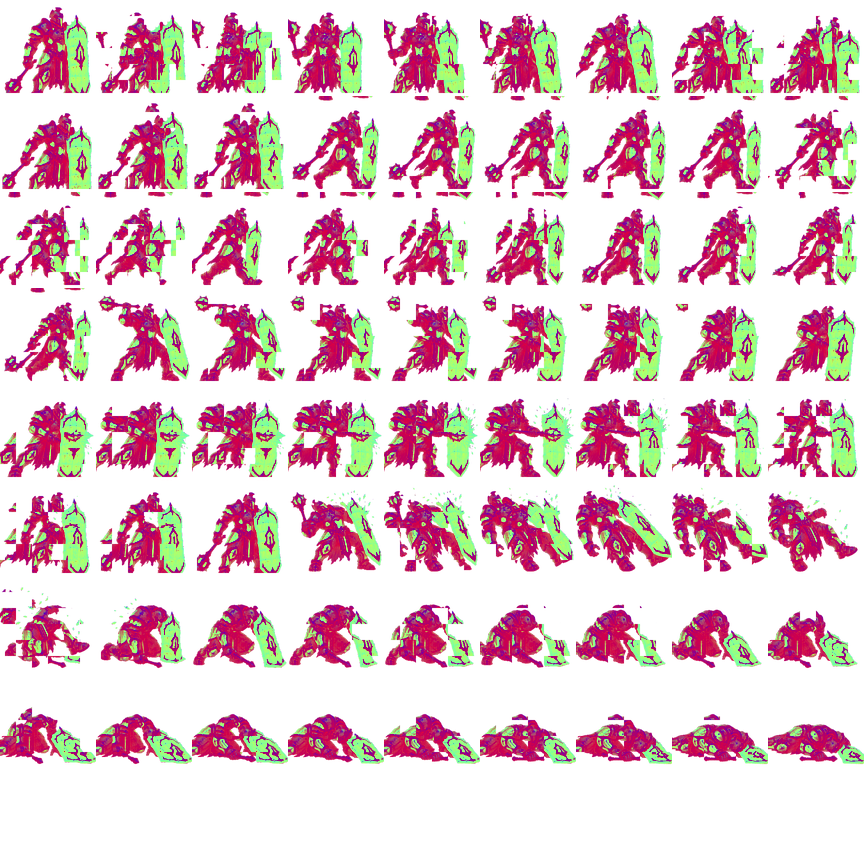
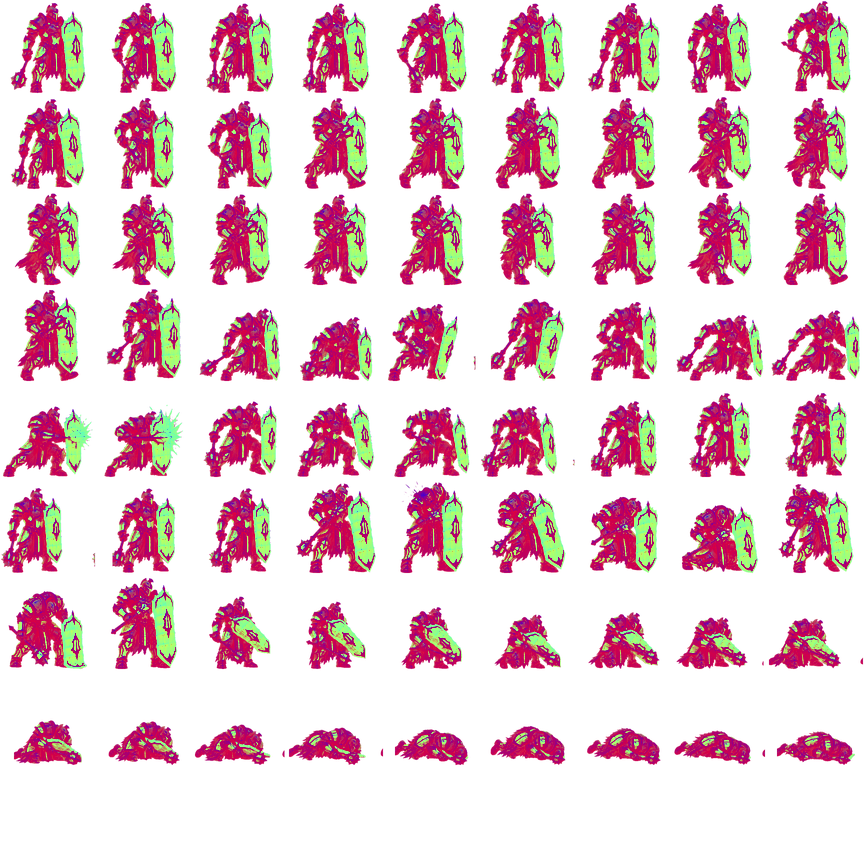
fix: replace cutout water animation with authored poses

diff --git a/tools/build_water_material_slice.py b/tools/build_water_material_slice.py
@@ -1,4 +1,4 @@
-"""Build deterministic water-ecology runtime atlases from original source art."""
+"""Build water-ecology atlases from complete authored animation poses."""
 
 from __future__ import annotations
 
@@ -14,6 +14,22 @@ ENV_SIZE = 768
 MONSTER_SIZE = 864
 CELL = 96
 COLUMNS = 9
+SEQUENCES = {
+    "bulwark": (
+        ("idle", "water-bulwark-idle-12-alpha-v3.png", 4, 3, 12),
+        ("move", "water-bulwark-move-16-alpha-v5.png", 4, 4, 16),
+        ("special", "water-bulwark-special-20-alpha-v3.png", 5, 4, 20),
+        ("hurt", "water-bulwark-hurt-8-alpha-v3.png", 4, 2, 8),
+        ("death", "water-bulwark-death-16-alpha-v4.png", 4, 4, 16),
+    ),
+    "support": (
+        ("idle", "water-support-idle-12-alpha-v4.png", 4, 3, 12),
+        ("move", "water-support-move-16-alpha-v3.png", 4, 4, 16),
+        ("special", "water-support-special-20-alpha-v5.png", 5, 4, 20),
+        ("hurt", "water-support-hurt-8-alpha-v4.png", 4, 2, 8),
+        ("death", "water-support-death-16-alpha-v3.png", 4, 4, 16),
+    ),
+}
 
 
 def cover(image: Image.Image, size: tuple[int, int]) -> Image.Image:
@@ -70,93 +86,39 @@ def alpha_bbox(image: Image.Image) -> tuple[int, int, int, int]:
     return bbox
 
 
-def pose_board_rows(role: str) -> list[list[Image.Image]]:
-    board = Image.open(
-        SOURCE / f"water-{role}-pose-board-alpha-v2.png").convert("RGBA")
-    reference = board.crop((0, 0, round(board.width / 4),
-                            round(board.height / 5)))
-    reference_alpha = reference.getchannel("A").point(
-        lambda value: 0 if value < 64 else 255)
-    reference_bbox = reference_alpha.getbbox()
-    if reference_bbox is None:
-        raise RuntimeError(f"{role} reference pose has no visible pixels")
-    cell_scale = 172.0 / (reference_bbox[3] - reference_bbox[1])
-    rows: list[list[Image.Image]] = []
-    for row in range(5):
+def sequence_frames(role: str) -> list[Image.Image]:
+    frames: list[Image.Image] = []
+    for state, filename, columns, rows, frame_count in SEQUENCES[role]:
+        board = Image.open(SOURCE / "water_sequences" / filename).convert("RGBA")
         poses: list[Image.Image] = []
-        top = round(row * board.height / 5)
-        bottom = round((row + 1) * board.height / 5)
-        for column in range(4):
-            left = round(column * board.width / 4)
-            right = round((column + 1) * board.width / 4)
-            pose = board.crop((left, top, right, bottom))
+        for frame in range(frame_count):
+            column = frame % columns
+            row = frame // columns
+            pose = board.crop((
+                round(column * board.width / columns),
+                round(row * board.height / rows),
+                round((column + 1) * board.width / columns),
+                round((row + 1) * board.height / rows)))
             alpha = pose.getchannel("A").point(
                 lambda value: 0 if value < 64 else (
                     255 if value > 160 else (value - 64) * 255 // 96))
             pose.putalpha(alpha)
-            pose = pose.resize((round(pose.width * cell_scale),
-                                round(pose.height * cell_scale)),
+            poses.append(pose.crop(alpha_bbox(pose)))
+        scale = min(184.0 / max(pose.height for pose in poses),
+                    188.0 / max(pose.width for pose in poses))
+        for pose in poses:
+            pose = pose.resize((round(pose.width * scale),
+                                round(pose.height * scale)),
                                Image.Resampling.LANCZOS)
             pose = pose.crop(alpha_bbox(pose))
             canvas = Image.new("RGBA", (CELL * 2, CELL * 2))
             canvas.alpha_composite(pose,
                 ((canvas.width - pose.width) // 2, 186 - pose.height))
-            poses.append(canvas)
-        rows.append(poses)
-    return rows
-
-
-def partwise_pose(poses: list[Image.Image], frame: int,
-                  frame_count: int, loop: bool) -> Image.Image:
-    if loop:
-        frames_per_transition = frame_count // len(poses)
-        pose_index = frame // frames_per_transition
-        next_pose_index = (pose_index + 1) % len(poses)
-        local_step = frame % frames_per_transition
-        transition_steps = frames_per_transition
-    else:
-        denominator = frame_count - 1
-        numerator = frame * (len(poses) - 1)
-        pose_index = min(numerator // denominator, len(poses) - 1)
-        if pose_index == len(poses) - 1:
-            return poses[pose_index].resize(
-                (CELL, CELL), Image.Resampling.LANCZOS)
-        next_pose_index = min(pose_index + 1, len(poses) - 1)
-        transition_start = (pose_index * denominator
-                            + len(poses) - 2) // (len(poses) - 1)
-        transition_end = ((pose_index + 1) * denominator
-                          + len(poses) - 2) // (len(poses) - 1)
-        local_step = frame - transition_start
-        transition_steps = transition_end - transition_start
-
-    current = poses[pose_index].copy()
-    following = poses[next_pose_index]
-    regions = tuple(
-        (column * 32, row * 32, (column + 1) * 32, (row + 1) * 32)
-        for row in range(6) for column in range(6))
-    weighted_regions = []
-    for region in regions:
-        difference = ImageChops.difference(
-            current.crop(region), following.crop(region))
-        if difference.getbbox() is None:
-            continue
-        histogram = difference.histogram()
-        weight = sum(value * count
-                     for channel in range(4)
-                     for value, count in enumerate(
-                         histogram[channel * 256:(channel + 1) * 256]))
-        weighted_regions.append((weight, region))
-    part_batches: list[list[tuple[int, int, int, int]]] = [
-        [] for _ in range(transition_steps)]
-    batch_weights = [0] * transition_steps
-    for weight, region in sorted(weighted_regions, reverse=True):
-        batch = min(range(transition_steps), key=batch_weights.__getitem__)
-        part_batches[batch].append(region)
-        batch_weights[batch] += weight
-    for batch in part_batches[:local_step]:
-        for region in batch:
-            current.paste(following.crop(region), region)
-    return current.resize((CELL, CELL), Image.Resampling.LANCZOS)
+            frames.append(canvas.resize(
+                (CELL, CELL), Image.Resampling.LANCZOS))
+        if len(poses) != frame_count:
+            raise RuntimeError(f"{role}/{state}: incomplete pose sheet")
+    return frames
 
 
 def validate_monster_frames(atlas: Image.Image, role: str) -> None:
@@ -188,23 +150,40 @@ def validate_monster_frames(atlas: Image.Image, role: str) -> None:
                 raise RuntimeError(
                     f"{role}/{state} frame {local_frame}->{local_frame + 1}: "
                     f"only {percent:.2f}% pixels changed")
+        for local_frame, frame in enumerate(frames):
+            visible = {
+                (x, y) for y in range(CELL) for x in range(CELL)
+                if frame.getpixel((x, y))[3] > 96}
+            remaining = set(visible)
+            components: list[int] = []
+            while remaining:
+                stack = [remaining.pop()]
+                size = 0
+                while stack:
+                    x, y = stack.pop()
+                    size += 1
+                    for dy in (-1, 0, 1):
+                        for dx in (-1, 0, 1):
+                            neighbor = (x + dx, y + dy)
+                            if neighbor in remaining:
+                                remaining.remove(neighbor)
+                                stack.append(neighbor)
+                components.append(size)
+            components.sort(reverse=True)
+            second = components[1] if len(components) > 1 else 0
+            if (not components or components[0] * 100 < len(visible) * 94
+                    or second * 100 > len(visible) * 2):
+                raise RuntimeError(
+                    f"{role}/{state} frame {local_frame}: disconnected silhouette")
         frame_offset += frame_count
 
 
 def build_monster(role: str) -> None:
-    rows = pose_board_rows(role)
     atlas = Image.new("RGBA", (MONSTER_SIZE, MONSTER_SIZE))
-    frame_index = 0
-    for row, frame_count, loop in (
-            (0, 12, True), (1, 16, True), (2, 20, False),
-            (3, 8, False), (4, 16, False)):
-        for local_frame in range(frame_count):
-            frame = partwise_pose(
-                rows[row], local_frame, frame_count, loop)
-            atlas.alpha_composite(frame,
-                ((frame_index % COLUMNS) * CELL,
-                 (frame_index // COLUMNS) * CELL))
-            frame_index += 1
+    for frame_index, frame in enumerate(sequence_frames(role)):
+        atlas.alpha_composite(frame,
+            ((frame_index % COLUMNS) * CELL,
+             (frame_index // COLUMNS) * CELL))
     validate_monster_frames(atlas, role)
     atlas.save(OUTPUT / f"water_{role}.png")
     material_map(atlas).save(OUTPUT / f"water_{role}_material.png")

diff --git a/tests/platform/ecology_material_coverage_tests.cpp b/tests/platform/ecology_material_coverage_tests.cpp
@@ -121,6 +121,62 @@ struct OpaqueBounds final {
     int height{};
 };
 
+struct ConnectedSilhouette final {
+    std::uint64_t visible_pixels{};
+    std::uint64_t largest_component{};
+    std::uint64_t second_component{};
+};
+
+ConnectedSilhouette connected_silhouette(const Color* pixels, int image_width,
+    const Rectangle& source) noexcept {
+    constexpr int kCell = 96;
+    std::array<bool, kCell * kCell> visited{};
+    std::array<int, kCell * kCell> queue{};
+    ConnectedSilhouette result{};
+    const int left = static_cast<int>(source.x);
+    const int top = static_cast<int>(source.y);
+    const auto visible = [&](int x, int y) noexcept {
+        return pixels[(top + y) * image_width + left + x].a > 96U;
+    };
+    for (int y{}; y < kCell; ++y) {
+        for (int x{}; x < kCell; ++x) {
+            if (visible(x, y)) ++result.visible_pixels;
+            const int start = y * kCell + x;
+            if (visited[start] || !visible(x, y)) continue;
+            std::size_t read{};
+            std::size_t write{1U};
+            queue[0] = start;
+            visited[start] = true;
+            while (read < write) {
+                const int cell = queue[read++];
+                const int cx = cell % kCell;
+                const int cy = cell / kCell;
+                for (int dy = -1; dy <= 1; ++dy) {
+                    for (int dx = -1; dx <= 1; ++dx) {
+                        if ((dx == 0 && dy == 0) || cx + dx < 0
+                            || cx + dx >= kCell || cy + dy < 0
+                            || cy + dy >= kCell) continue;
+                        const int neighbor = (cy + dy) * kCell + cx + dx;
+                        if (visited[neighbor] || !visible(cx + dx, cy + dy)) {
+                            continue;
+                        }
+                        visited[neighbor] = true;
+                        queue[write++] = neighbor;
+                    }
+                }
+            }
+            const std::uint64_t component = write;
+            if (component > result.largest_component) {
+                result.second_component = result.largest_component;
+                result.largest_component = component;
+            } else if (component > result.second_component) {
+                result.second_component = component;
+            }
+        }
+    }
+    return result;
+}
+
 struct SilhouetteMetrics final {
     OpaqueBounds bounds{};
     std::uint64_t visible_pixels{};
@@ -299,7 +355,14 @@ arpg::test::Failure water_monsters_expose_complete_multiframe_state_groups() noe
                     pixels, image.width, current->source);
                 const SilhouetteMetrics metrics = frame_silhouette_metrics(
                     pixels, image.width, current->source);
+                const ConnectedSilhouette connected = connected_silhouette(
+                    pixels, image.width, current->source);
                 ARPG_REQUIRE(metrics.visible_pixels > 0U);
+                ARPG_REQUIRE(connected.visible_pixels > 0U);
+                ARPG_REQUIRE(connected.largest_component * 100U
+                    >= connected.visible_pixels * 94U);
+                ARPG_REQUIRE(connected.second_component * 100U
+                    <= connected.visible_pixels * 2U);
                 ARPG_REQUIRE(metrics.soft_pixels * 100U
                     <= metrics.visible_pixels * 55U);
                 if (frame > 0U) {

diff --git a/.superpowers/sdd/water-material-slice-report.md b/.superpowers/sdd/water-material-slice-report.md
@@ -2,7 +2,7 @@
 
 ## 变更
 
-- 新增原创水环境、水盾卫、水支援原图、5x4 动作姿态板、透明源、运行时彩色图集与材质图；确定性构建脚本从每状态四个真实关键姿态插值重建全部六张水系运行时资源，并补齐三张公共材质图。
+- 新增原创水环境、水盾卫、水支援原图、10 张逐状态完整动作源板及对应透明源、运行时彩色图集与材质图；构建脚本直接缩放并排布每张源板中的完整角色帧，重建全部六张水系运行时资源，并补齐三张公共材质图。
 - 水环境独立提供湿石地面、墙、门、洞口、冷光灯、矿物珊瑚与排水格栅，运行时不引用火焰环境图集。
 - 水盾卫与水支援使用各自的 864x864 图集；每怪提供待机 12、移动 16、特殊 20、受击 8、死亡 16 个实际 UV 帧。纯表现状态时钟按槽位 generation/id 管理，特殊、受击、死亡从第 0 帧启动，死亡播放完成后钳制最后一帧。
 - manifest、MaterialPack 双图加载与材质合成、房间渲染、角色渲染和 Stage 12 正式验证资源复制均已接入；完整 manifest 的 color+material RGBA 预算为 134,103,040 bytes，低于 256 MiB 上限。
@@ -15,11 +15,12 @@
 - 水怪构建器删除完整 RGBA 的 `Image.blend`。同一怪物使用固定参考比例、统一脚底 y=186，并按四个离散关键姿态保持；相邻帧测试约束高度跳变、质心位移与 55% 软轮廓上限。
 - 正式验证新增强制 water ecology 的 `water-monsters-1280x720.png`，因此 fire 与 water 选择性加载都经过真实 raylib/OpenGL 路径；shader 编译失败会在日志中显式暴露。
 
-## 第三轮复审修复
+## 第三轮及本轮复审修复
 
-- 水怪逐帧生成改为固定 192x192 画布、统一脚锚的 6x6 独立部件过渡；每个关键姿态间按 RGBA 差异权重均衡分批替换头部、肢体、武器、躯干与腿部区域，不做整帧复制、整图抖动或半透明混合。
-- 生成器与平台验收同时硬断言：每状态所有 12/16/20/8/16 帧的分块感知哈希唯一，任意相邻帧至少 3% 可见像素发生实质变化，并继续约束高度、质心、软轮廓、固定比例和脚锚。
-- `MaterialPack` 与 `CombatRenderer` 暴露只读 shader/生态/图集驻留状态；正式 water 截图只有在 shader pipeline 已就绪且 water_environment、water_bulwark、water_support 三对 color/material 图集全部驻留时才返回成功，并把每项状态写入证据报告。
+- 使用内置 ImageGen 分别创作水盾卫与水支援的 idle/move/special/hurt/death 共 10 张完整动作源板；最终提示约束为固定正交镜头、固定比例和脚底锚点、每格完整单体角色、武器/盾牌/法器始终与身体接触、纯洋红键色背景、无网格裁片/漂浮部件/独立特效。随后使用本地 chroma-key 工具生成透明源，最终文件位于 `art_source/stage12/water_sequences/`。
+- 构建器按源板格位直接裁取完整姿态，以每状态统一缩放和固定脚底锚点写入图集；不再执行网格切片、`Image.blend`、整帧复制或位移抖动。两张运行时角色图集均已目视检查，未发现矩形接缝或漂浮身体/装备部件。
+- 生成器与平台验收同时硬断言：每状态所有 12/16/20/8/16 帧的全帧感知哈希唯一，任意相邻帧至少 3% 可见像素发生实质变化；8 邻域最大连通轮廓必须覆盖至少 94% 可见像素，第二大分量不得超过 2%，并继续约束高度、质心、软轮廓、固定比例和脚锚。
+- `MaterialPack` 与 `CombatRenderer` 暴露只读 shader/生态/图集驻留状态；正式 water 截图只有在 shader pipeline 已就绪且 water_environment、water_bulwark、water_support 三对 color/material 图集全部驻留时才返回成功，并把每项状态写入证据报告。本轮未修改这些 shader 与生态驻留实现。
 
 ## Commit
 
@@ -27,6 +28,7 @@
 - `fix: complete paired water material presentation`（审核修复波；提交哈希由 Git 生成。）
 - `fix: enforce material semantics and ecology residency`（第二轮审核修复波；提交哈希由 Git 生成。）
 - `fix: require complete material animation evidence`（第三轮审核修复波；提交哈希由 Git 生成。）
+- `fix: replace cutout water animation with authored poses`（本轮审核修复波；提交哈希由 Git 生成。）
 
 ## 测试
 
@@ -46,6 +48,13 @@
 
 - `out/build/windows-msvc-debug/bin/arpg_platform_tests.exe` — 通过，401/401；包含 shader 初始化失败、缺少任一水系双图以及逐状态全帧感知哈希/相邻变化门禁。
 - `ctest --test-dir out/build/windows-msvc-debug -R "^(platform\.units|stage12\.material_(formal|evidence_validator|root_safety))$" --output-on-failure` — 通过，4/4；正式报告强制记录 shader 与水系三对图集运行时驻留状态。
+
+## 本轮验证
+
+- RED：旧分块图集按预期失败于连通轮廓门禁 `connected.second_component * 100U <= connected.visible_pixels * 2U`，随后才替换为完整动作源板。
+- `python tools/build_water_material_slice.py` — 通过；直接从 10 张最终透明动作源板重建水环境、水盾卫、水支援的 color/material 资源。
+- `out/build/windows-msvc-debug/bin/arpg_platform_tests.exe` — 通过，401/401；除全帧唯一性与相邻变化外，新增逐帧 94% 主连通分量和 2% 次连通分量上限。
+- `ctest --test-dir out/build/windows-msvc-debug -R "^(platform\.units|stage12\.material_(formal|evidence_validator|root_safety))$" --output-on-failure` — 通过，4/4；正式证据继续覆盖真实 shader pipeline 与水系三对图集驻留。
 
 ## 已验证范围
 
